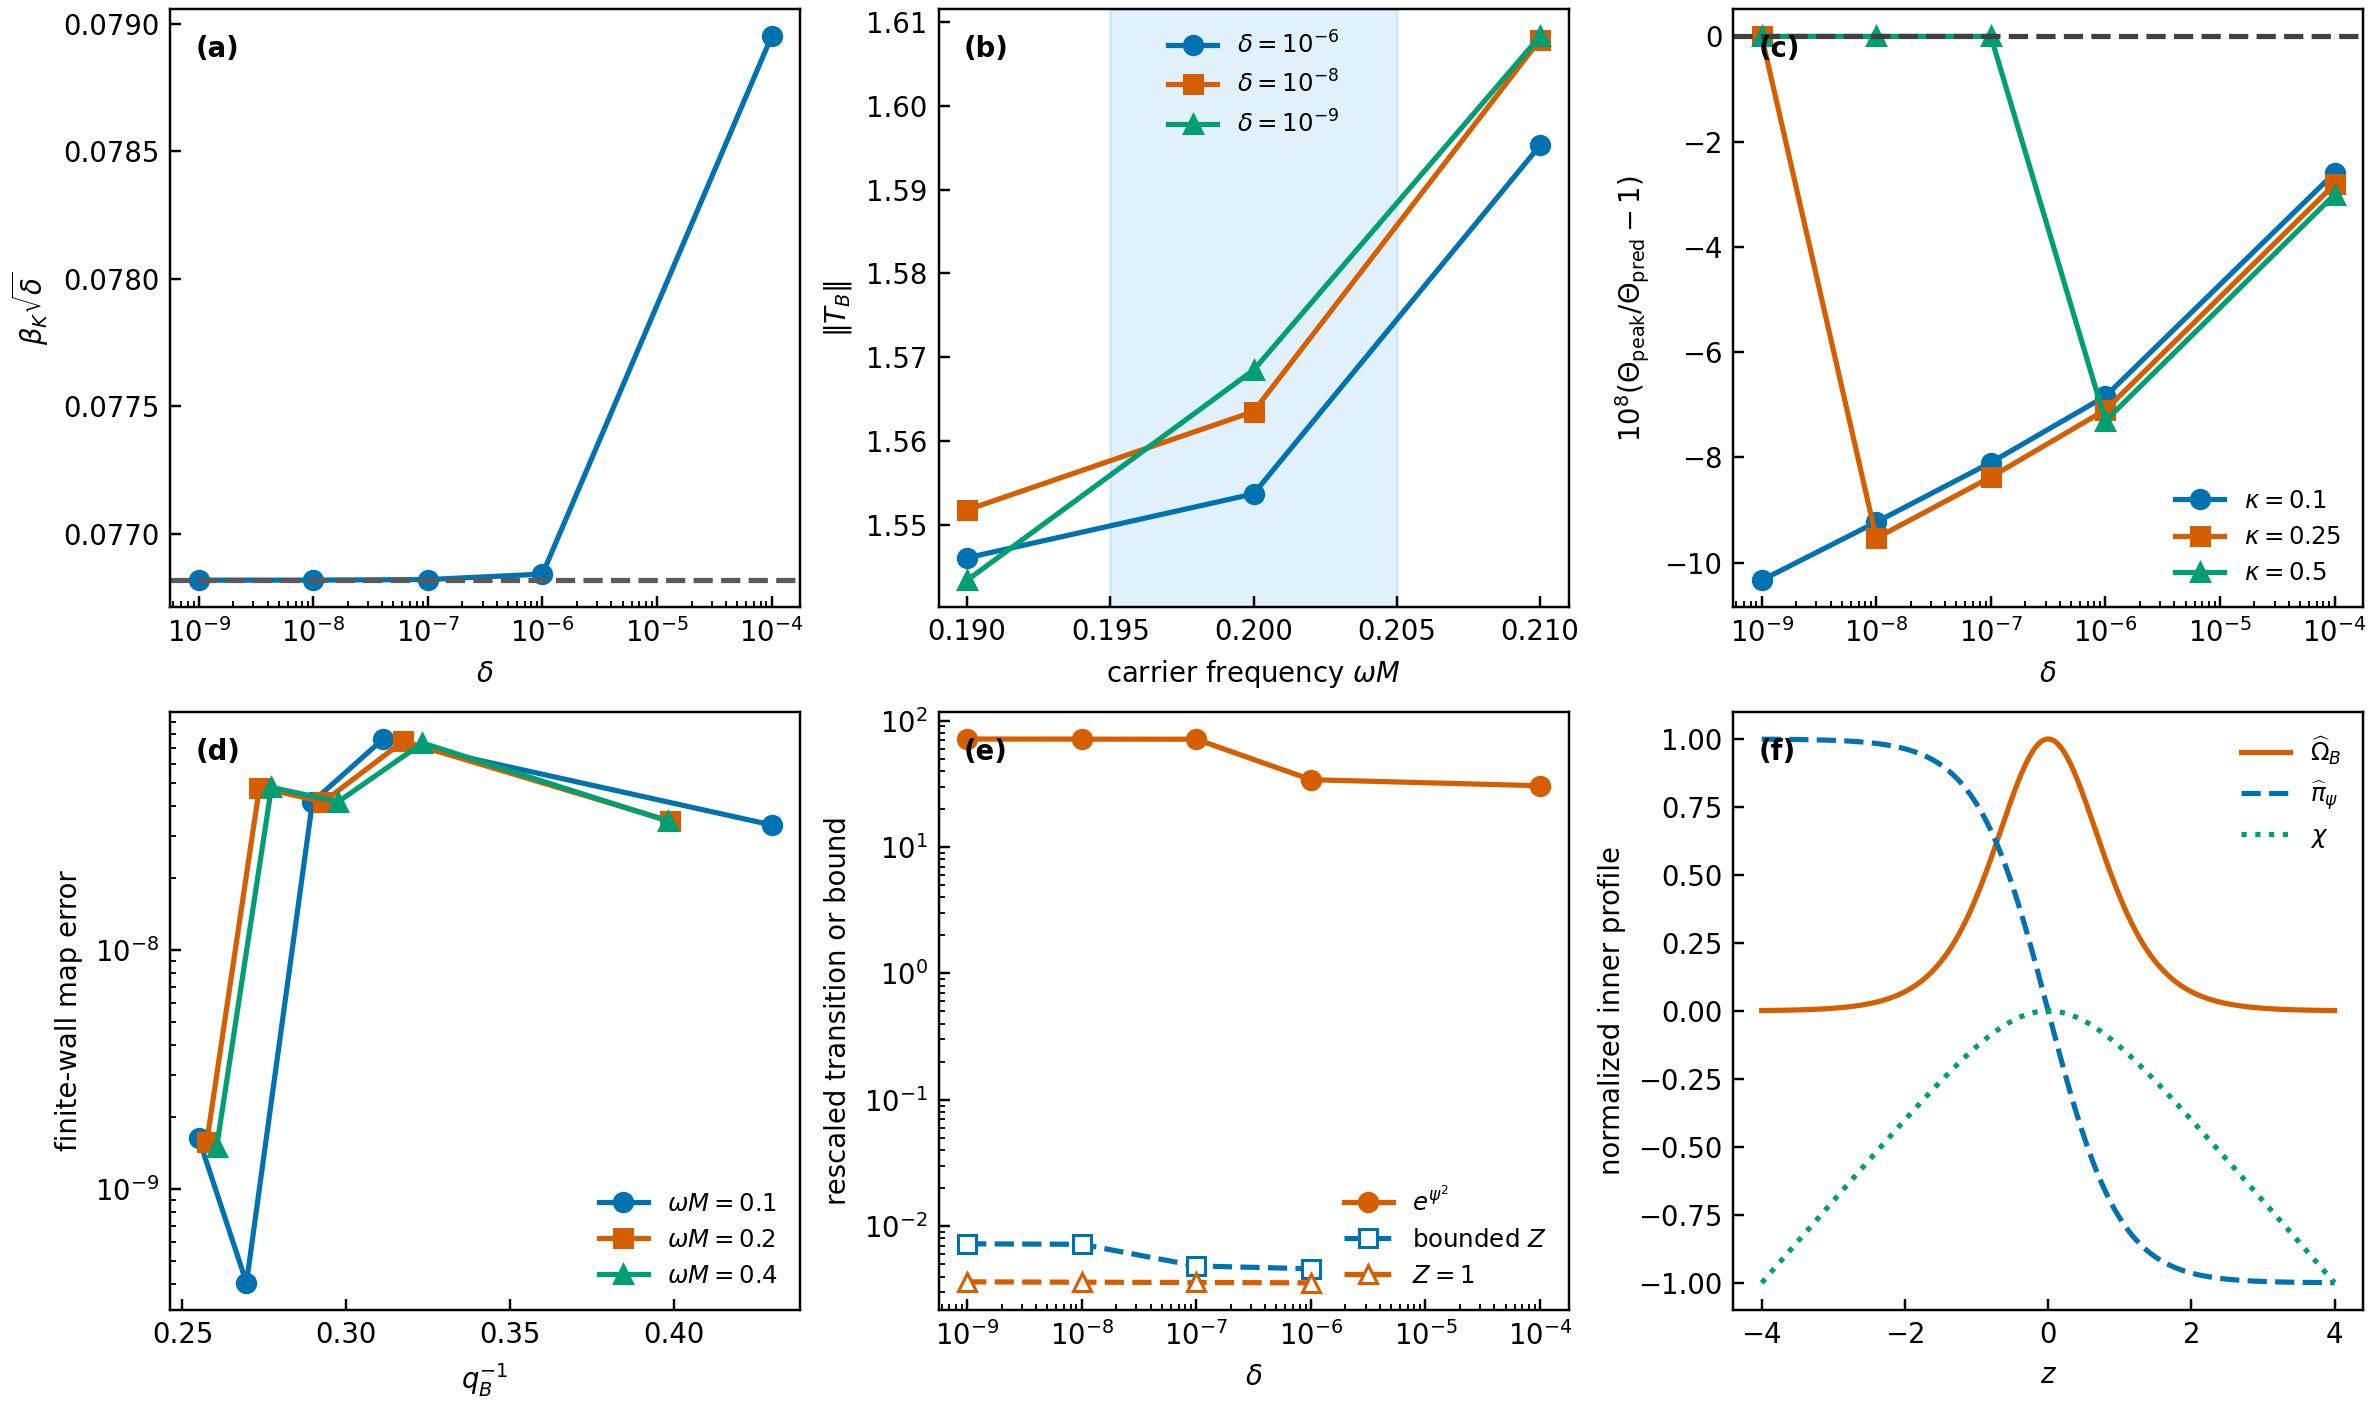
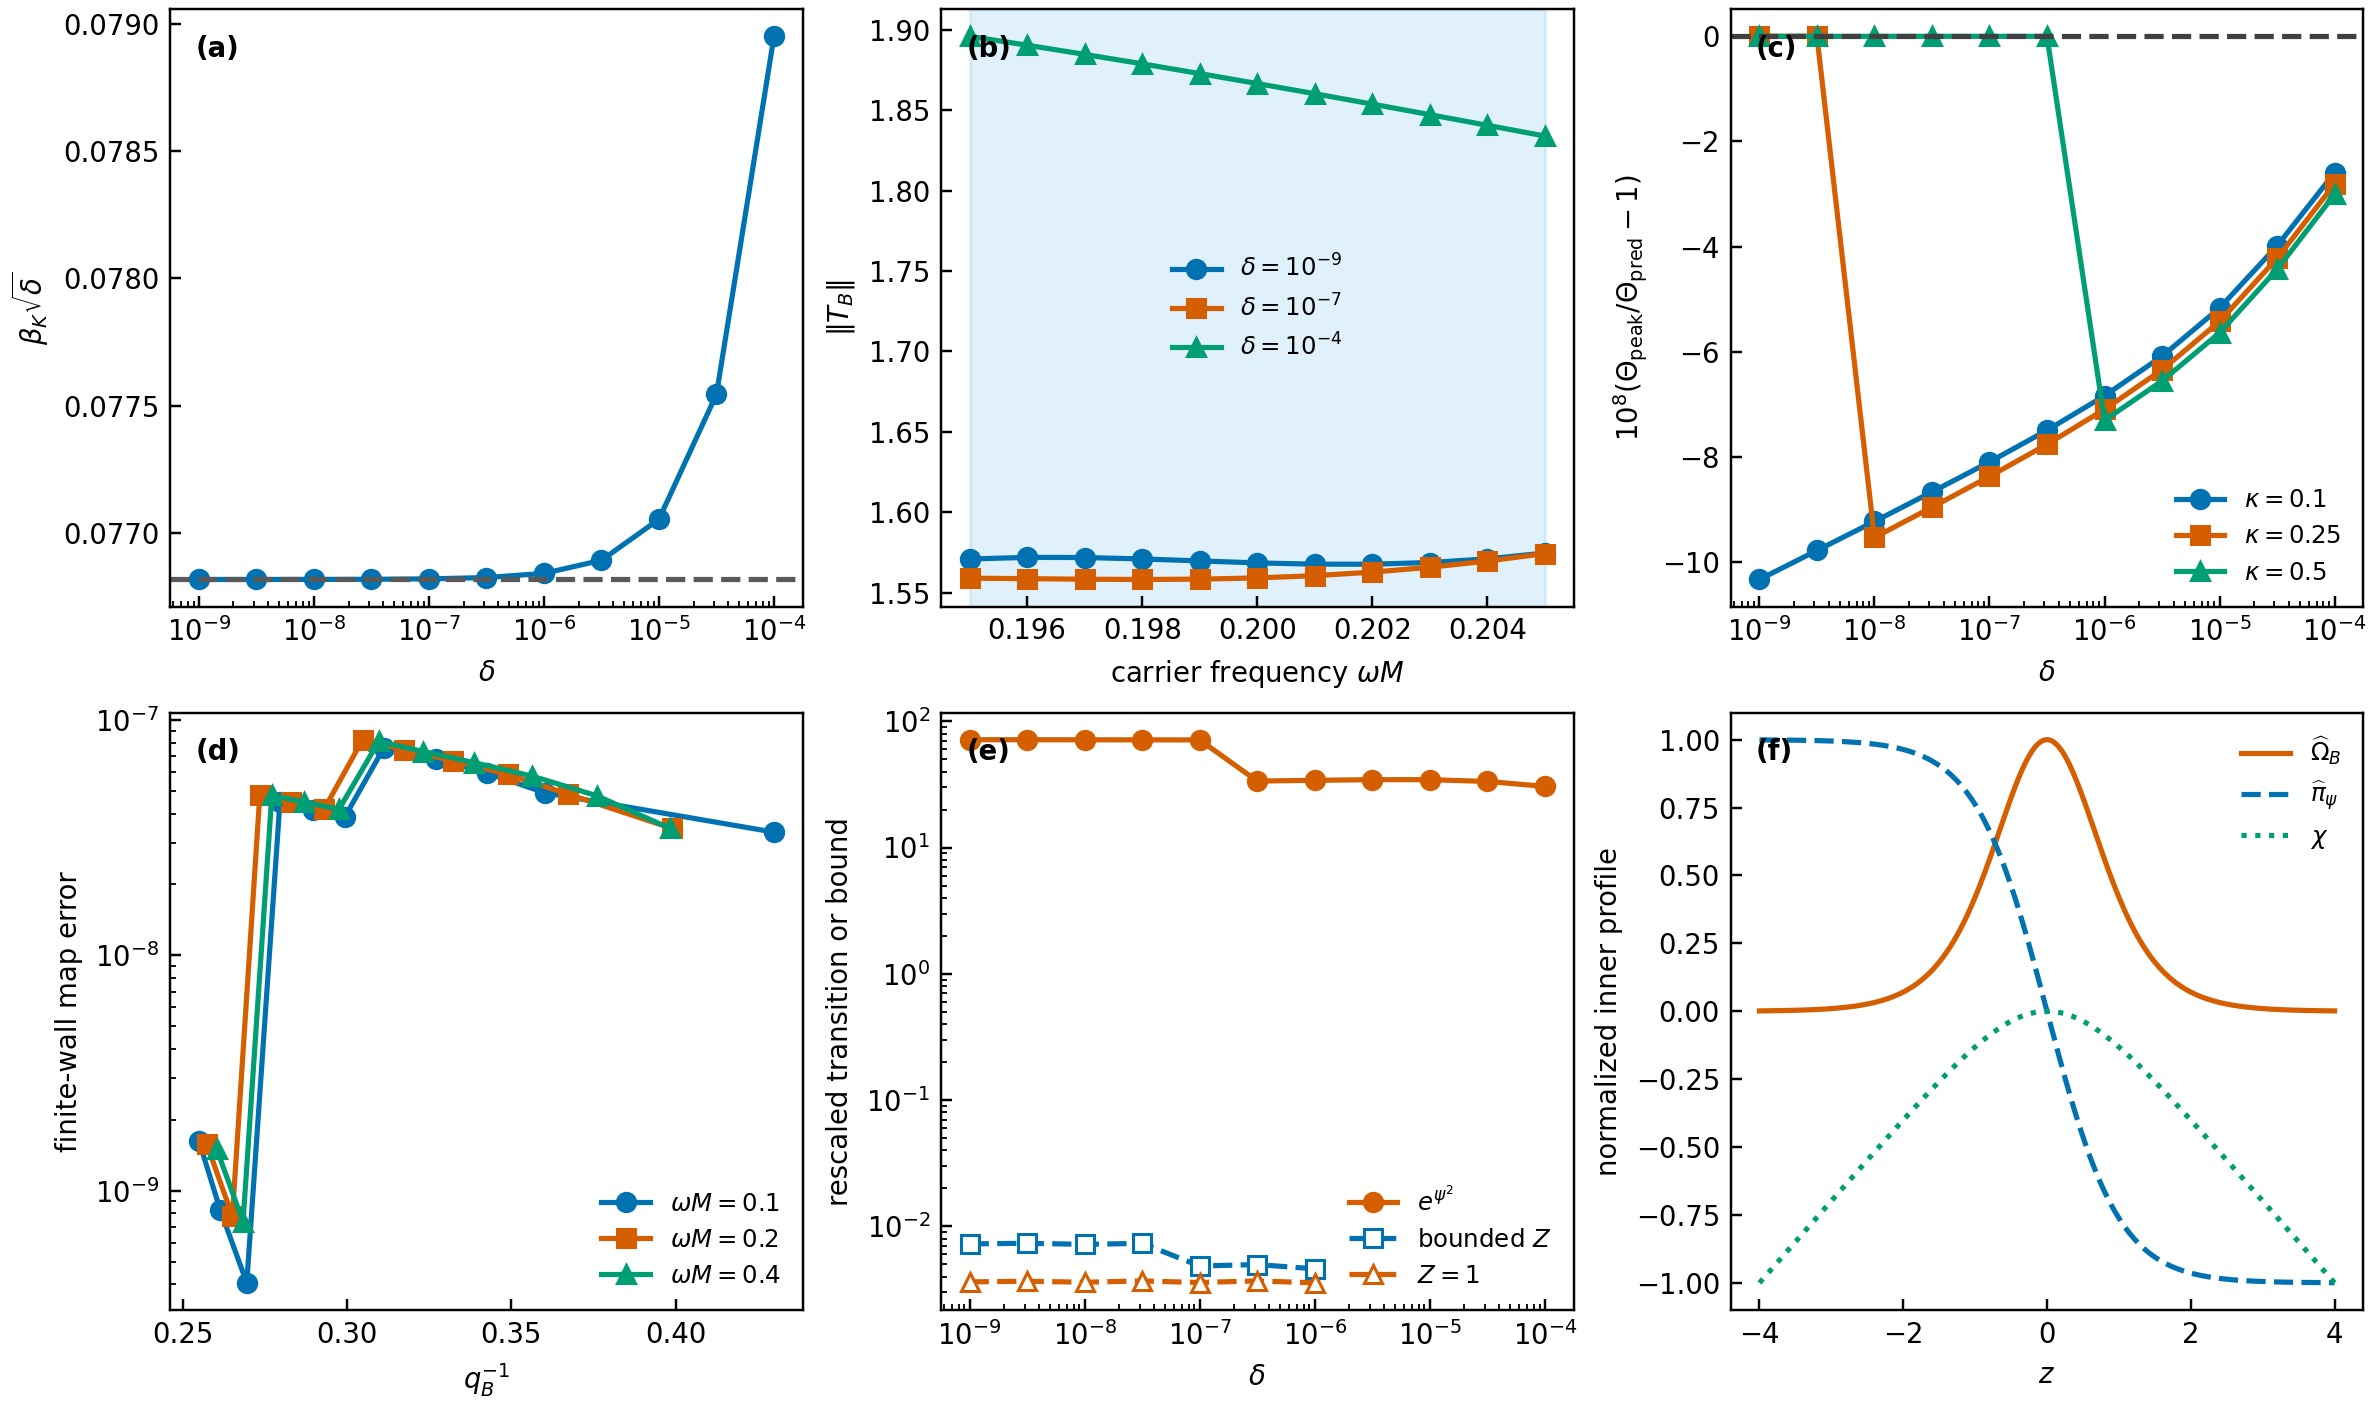
test: verify the expanded frozen results and manifest

diff --git a/tests/test_reproduction.py b/tests/test_reproduction.py
@@ -26,7 +26,7 @@ def test_public_package_verifies() -> None:
 
 def test_trajectory_count_and_semantics() -> None:
     rows = read_trajectories(ROOT / "data" / "trajectories.jsonl")
-    assert len(rows) == 225
+    assert len(rows) == 495
     assert all(row["plateaus"]["outcome"] == "KASNER_TRANSITION" for row in rows)
     assert all(row["packet_energy_tau_1"] > 0.0 for row in rows)
 
